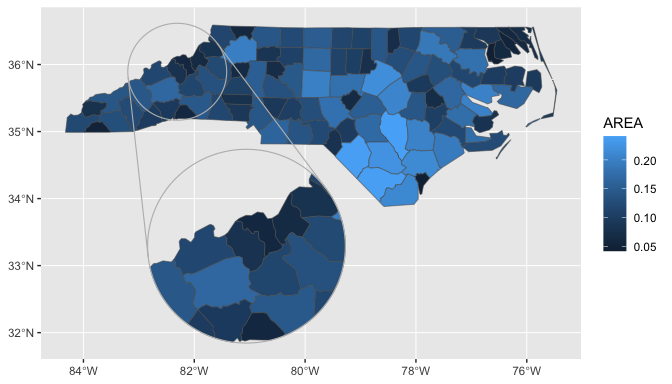
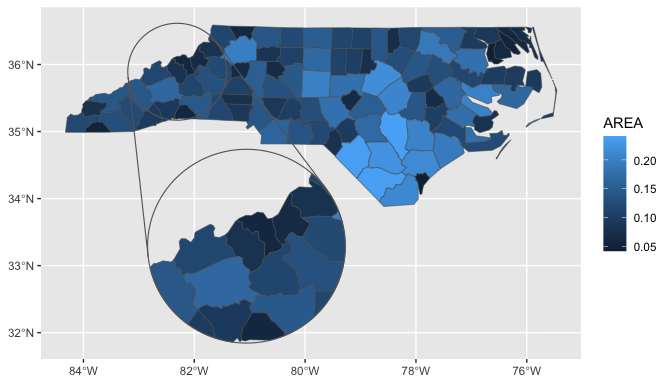
Add default inset config as a coord

diff --git a/NEWS.md b/NEWS.md
@@ -4,6 +4,9 @@
   arbitrary geometries.
 * Replaced the confusing `inset_clip` and `inset_copy` parameters of
   `geom_sf_inset()` with the new `map_base` and `map_inset` parameters.
+* Inset frame aesthetics can now be specified consistently.
+* A default inset configuration can be passed to `coord_sf_inset()` to avoid
+  repeating it for every layer.
 
 # ggmapinset 0.2.3
 
